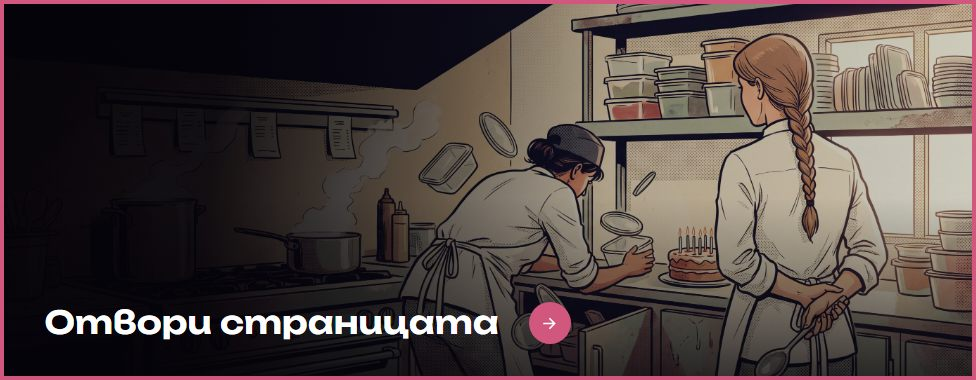
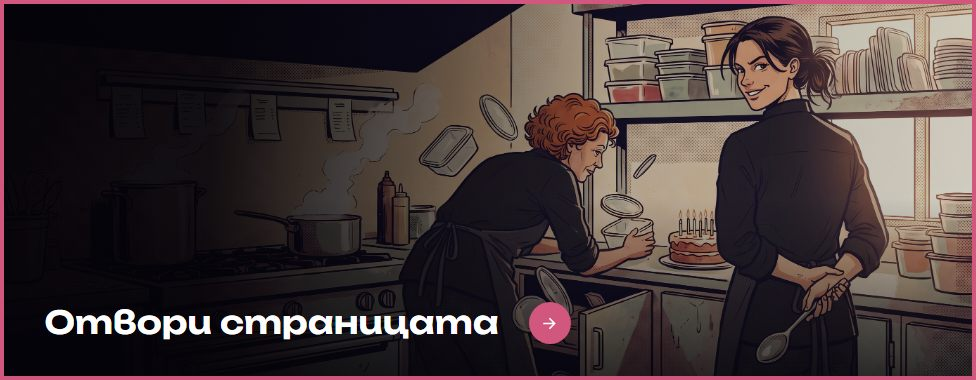
Къде са капачките?: илюстрациите по снимката на Ганна и Марианка; подписът — само Ганна
Ганна прати обща снимка (07.10). Двете готови картини са редактирани с нея като образец,
не рисувани наново: gemini-3.1-flash 2K, 5 кредита всяка (2c20709c — вариант 1, рамката
изрязана по 50 px; 316e27d3 — вариант 2). Марианка — къса къдрава медна коса, Ганна —
кестенява опашка, черни готварски якета. Нови hero/og/mail-cta, версиите преизчислени,
описанията на картините обновени. Долу на страниците: „Ганна“ вместо „Марианка & Ганна“.

diff --git a/pesni/kade-sa-kapachkite-2.html b/pesni/kade-sa-kapachkite-2.html
@@ -25,7 +25,7 @@
   <meta property="og:title" content="Къде са капачките? — песен за рождения ден на Марианка">
   <meta property="og:description" content="Каквото и да търсиш — аз стоя до теб! Песен, написана по една история.">
   <meta property="og:url" content="https://pesenta.bg/pesni/kade-sa-kapachkite-2.html">
-  <meta property="og:image" content="https://pesenta.bg/assets/img/og-kade-sa-kapachkite-2.jpg?v=5b930191">
+  <meta property="og:image" content="https://pesenta.bg/assets/img/og-kade-sa-kapachkite-2.jpg?v=bedd4f6d">
   <meta property="og:image:width" content="1200">
   <meta property="og:image:height" content="630">
   <meta property="og:image:type" content="image/jpeg">
@@ -47,7 +47,7 @@
     "inLanguage": ["bg", "uk"],
     "duration": "PT2M58S",
     "genre": "поп",
-    "image": "https://pesenta.bg/assets/img/og-kade-sa-kapachkite-2.jpg?v=5b930191",
+    "image": "https://pesenta.bg/assets/img/og-kade-sa-kapachkite-2.jpg?v=bedd4f6d",
     "audio": "https://pesenta.bg/assets/audio/kade-sa-kapachkite-2.mp3?v=1fe207f0",
     "url": "https://pesenta.bg/pesni/kade-sa-kapachkite-2.html"
   }
@@ -74,10 +74,10 @@
        На страница, чийто смисъл е тази песен, това значи празен екран, ако
        скриптът не се зареди. -->
   <figure class="podarak-kadar">
-    <img src="../assets/img/pesen-kade-sa-kapachkite-2-hero.jpg?v=f6287386"
-         srcset="../assets/img/pesen-kade-sa-kapachkite-2-hero-600.jpg?v=4d589a7f 600w, ../assets/img/pesen-kade-sa-kapachkite-2-hero.jpg?v=f6287386 1200w"
+    <img src="../assets/img/pesen-kade-sa-kapachkite-2-hero.jpg?v=01ed63b6"
+         srcset="../assets/img/pesen-kade-sa-kapachkite-2-hero-600.jpg?v=4dd8d39e 600w, ../assets/img/pesen-kade-sa-kapachkite-2-hero.jpg?v=01ed63b6 1200w"
          sizes="(max-width: 768px) 100vw, 720px" fetchpriority="high"
-         alt="Илюстрация в стил комикс: гореща кухня — готвачка рови в шкафа и около нея хвърчат капаци и кутии, колежката ѝ с дълга плитка стои до нея и крие голяма лъжица зад гърба си, а на плота чака торта със свещи."
+         alt="Илюстрация в стил комикс: гореща кухня — Марианка с къса къдрава медна коса рови в шкафа и около нея хвърчат капаци и кутии, а Ганна с кестенява опашка се обръща с дяволита усмивка и крие голяма лъжица зад гърба си; на плота чака торта със свещи."
          width="1200" height="638">
   </figure>
 
@@ -177,7 +177,7 @@
 
   <div class="podarak-kraj">
     <p class="podarak-red-kraj">Каквото и да търсиш — аз стоя до теб!</p>
-    <p class="podarak-imena">Марианка &amp; Ганна</p>
+    <p class="podarak-imena">Ганна</p>
   </div>
 
   <!-- Знакът е подпис, не реклама: не води наникъде и стои тихо. -->

diff --git a/pesni/kade-sa-kapachkite.html b/pesni/kade-sa-kapachkite.html
@@ -25,7 +25,7 @@
   <meta property="og:title" content="Къде са капачките? — песен за рождения ден на Марианка">
   <meta property="og:description" content="Каквото и да търсиш — аз стоя до теб! Песен, написана по една история.">
   <meta property="og:url" content="https://pesenta.bg/pesni/kade-sa-kapachkite.html">
-  <meta property="og:image" content="https://pesenta.bg/assets/img/og-kade-sa-kapachkite.jpg?v=b291b98f">
+  <meta property="og:image" content="https://pesenta.bg/assets/img/og-kade-sa-kapachkite.jpg?v=58a97336">
   <meta property="og:image:width" content="1200">
   <meta property="og:image:height" content="630">
   <meta property="og:image:type" content="image/jpeg">
@@ -47,7 +47,7 @@
     "inLanguage": ["bg", "uk"],
     "duration": "PT2M49S",
     "genre": "поп",
-    "image": "https://pesenta.bg/assets/img/og-kade-sa-kapachkite.jpg?v=b291b98f",
+    "image": "https://pesenta.bg/assets/img/og-kade-sa-kapachkite.jpg?v=58a97336",
     "audio": "https://pesenta.bg/assets/audio/kade-sa-kapachkite.mp3?v=1f57382a",
     "url": "https://pesenta.bg/pesni/kade-sa-kapachkite.html"
   }
@@ -74,10 +74,10 @@
        На страница, чийто смисъл е тази песен, това значи празен екран, ако
        скриптът не се зареди. -->
   <figure class="podarak-kadar">
-    <img src="../assets/img/pesen-kade-sa-kapachkite-hero.jpg?v=2dc7f29c"
-         srcset="../assets/img/pesen-kade-sa-kapachkite-hero-600.jpg?v=5860186d 600w, ../assets/img/pesen-kade-sa-kapachkite-hero.jpg?v=2dc7f29c 1200w"
+    <img src="../assets/img/pesen-kade-sa-kapachkite-hero.jpg?v=c8bcc7e8"
+         srcset="../assets/img/pesen-kade-sa-kapachkite-hero-600.jpg?v=9bae88f1 600w, ../assets/img/pesen-kade-sa-kapachkite-hero.jpg?v=c8bcc7e8 1200w"
          sizes="(max-width: 768px) 100vw, 720px" fetchpriority="high"
-         alt="Илюстрация в стил комикс: празнична кухня с гирлянд — готвачка с капак на главата търси нещо по горния рафт, колежката ѝ с дълга плитка я сочи и се смее, а до тенджерите чака торта със свещи."
+         alt="Илюстрация в стил комикс: празнична кухня с гирлянд — Марианка с къса къдрава медна коса и капак на главата търси нещо по горния рафт, а Ганна с кестенява опашка я сочи и се смее; до тенджерите чака торта със свещи."
          width="1200" height="638">
   </figure>
 
@@ -177,7 +177,7 @@
 
   <div class="podarak-kraj">
     <p class="podarak-red-kraj">Каквото и да търсиш — аз стоя до теб!</p>
-    <p class="podarak-imena">Марианка &amp; Ганна</p>
+    <p class="podarak-imena">Ганна</p>
   </div>
 
   <!-- Знакът е подпис, не реклама: не води наникъде и стои тихо. -->
